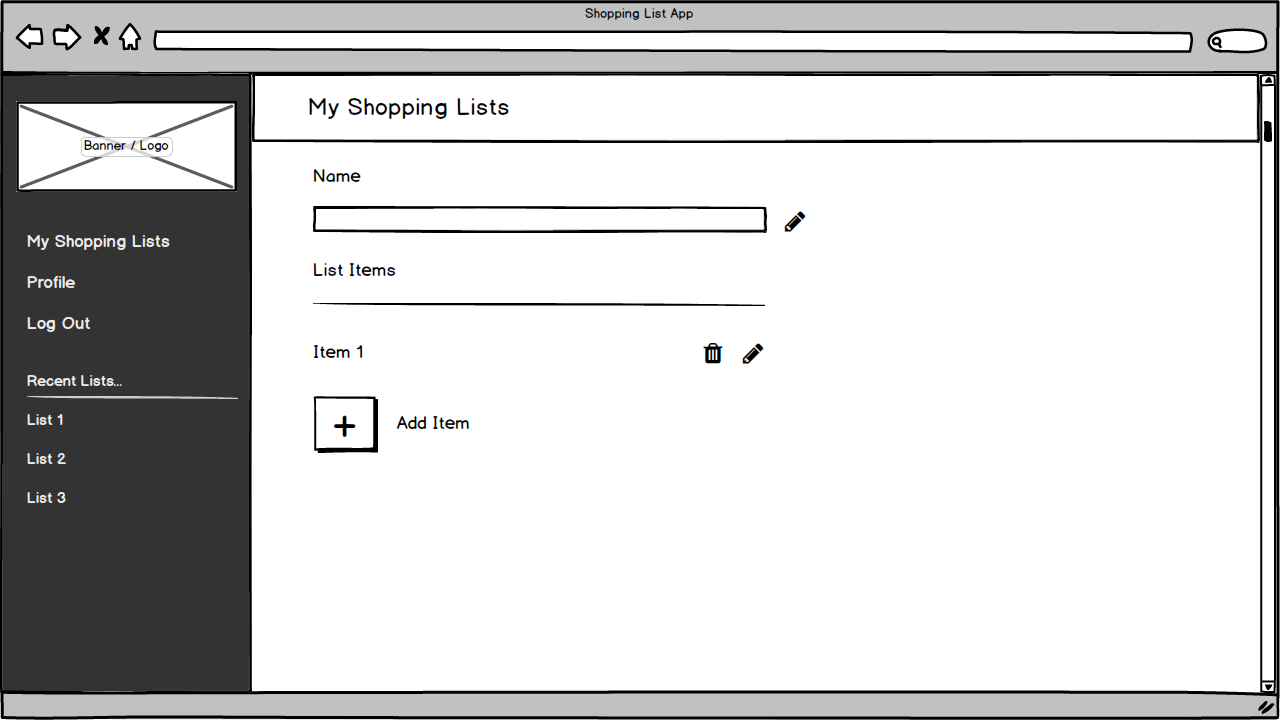
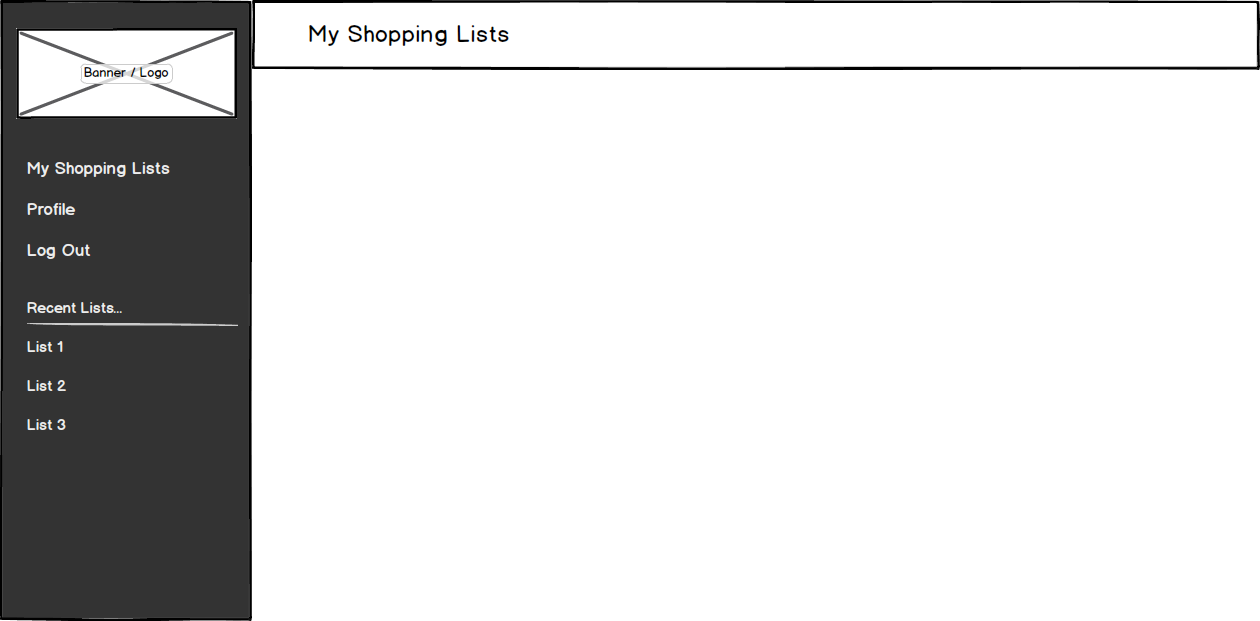
(Fix) Changed shopping list ui wireframe

diff --git a/designs/add_shoppinglist.html b/designs/add_shoppinglist.html
@@ -1,0 +1,136 @@
+<!DOCTYPE html>
+<html lang="en">
+<head>
+    <meta http-equiv="Content-Type" content="text/html; charset=UTF-8"/>
+    <meta name="viewport" content="width=device-width, initial-scale=1.0"/>
+
+    <title>Add Shopping List</title>
+
+    <!-- Favicons-->
+    <link rel="apple-touch-icon-precomposed" href="img/favicon.png">
+    <link rel="icon" href="img/favicon.png" sizes="32x32">
+
+    <link rel="stylesheet" href="https://fonts.googleapis.com/icon?family=Material+Icons"/>
+
+    <!-- CSS -->
+    <link rel="stylesheet" type="text/css" href="css/materialize.css" media="screen,projection"/>
+    <link rel="stylesheet" type="text/css" href="css/flickity.min.css" media="screen"/>
+    <link rel="stylesheet" type="text/css" href="css/animate.css"/>
+    <link rel="stylesheet" type="text/css" href="css/style.css"/>
+</head>
+
+<body>
+
+<!-- Preloader -->
+<div class="preloaderBackground">
+    <div class="preloader-wrapper big active">
+        <div class="spinner-layer spinner-blue">
+            <div class="circle-clipper left">
+                <div class="circle"></div>
+            </div>
+            <div class="gap-patch">
+                <div class="circle"></div>
+            </div>
+            <div class="circle-clipper right">
+                <div class="circle"></div>
+            </div>
+        </div>
+
+        <div class="spinner-layer spinner-red">
+            <div class="circle-clipper left">
+                <div class="circle"></div>
+            </div>
+            <div class="gap-patch">
+                <div class="circle"></div>
+            </div>
+            <div class="circle-clipper right">
+                <div class="circle"></div>
+            </div>
+        </div>
+        
+        <div class="spinner-layer spinner-yellow">
+            <div class="circle-clipper left">
+                <div class="circle"></div>
+            </div>
+            <div class="gap-patch">
+                <div class="circle"></div>
+            </div>
+            <div class="circle-clipper right">
+                <div class="circle"></div>
+            </div>
+        </div>
+    </div>
+</div>
+
+<!-- Sidebar -->
+<div id="slide-out" class="side-nav">
+    <div class="container">
+        <div class="brand"><img src="img/logo_white.png" width="210px"></div>
+
+        <ul class="user-options">
+            <li><a href="#" class="userLink"><h5>Username</h5></a></li>
+            <hr/>
+            <li class="active"><a href="#" class="">Shopping Lists</a></li>
+            <li><a href="#" class="">Sign Out</a></li>
+        </ul>
+    </div>
+</div>
+
+<!-- Main navigation -->
+<nav class="deep-purple">
+    <div class="nav-wrapper">
+        <a href="#" class="brand-logo center">My Shopping Lists</a>
+        <a href="#" data-activates="slide-out" class="button-collapse show-on-large"><i class="material-icons">menu</i></a>
+    </div>
+</nav>
+
+<!-- Page content -->
+<div class="content">
+    <div class="container">
+        <div class="row">
+            <div class="col s12 m7 l7">
+                <h3>Add Shopping List</h3>
+
+                <form method="POST" action="" class="col s12">
+                    <div class="row">
+                        <div class="input-field col s12">
+                            <label for="name">Name</label>
+                            <input id="name" name="name" required="required" type="text"/>
+                        </div>
+
+                        <div class="input-field col s12">
+                            <label for="description">Description</label>
+                            <input id="description" name="description" type="text"/>
+                        </div>
+
+                        <div class="col s12">
+                            <button class="btn btn-large waves-effect waves-dark deep-purple" type="submit"
+                                    name="add">
+                                Add
+                            </button>
+                        </div>
+                    </div>
+                </form>
+            </div>
+        </div>
+    </div>
+</div>
+
+<!-- Scripts -->
+<script type="text/javascript" src="js/jquery-3.2.1.min.js"></script>
+<script type="text/javascript" src="js/materialize.js"></script>
+<script type="text/javascript" src="js/flickity.pkgd.min.js"></script>
+<script type="text/javascript" src="js/wow.js"></script>
+<script type="text/javascript" src="js/custom.js"></script>
+<script type="text/javascript">
+    $(document).ready(function () {
+        // Initialize collapse button
+        $(".button-collapse").sideNav();
+
+        //Initialize wow js
+        new WOW().init();
+    });
+</script>
+
+</body>
+</html>
